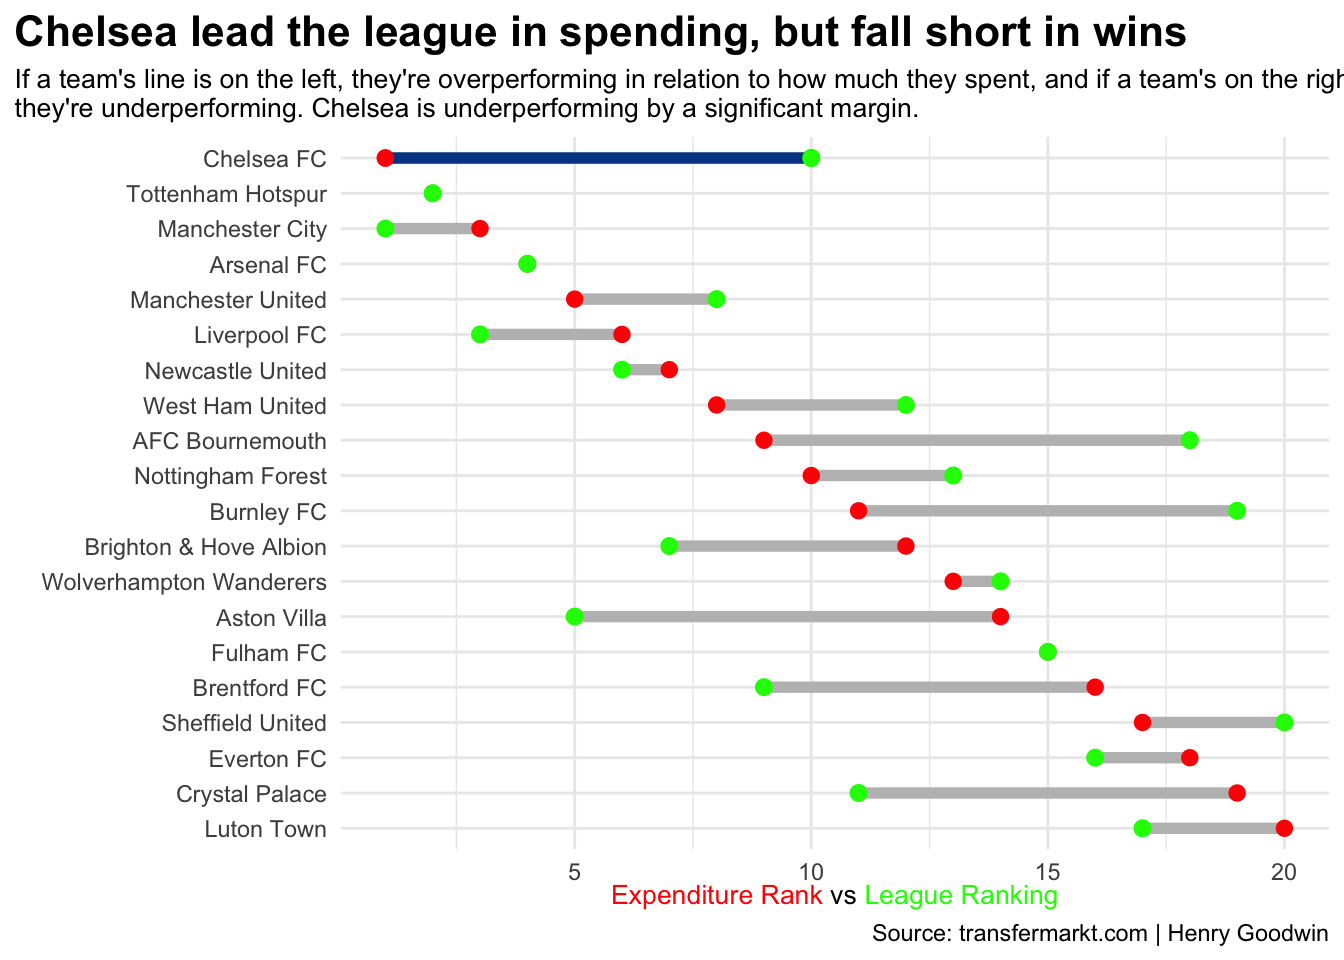
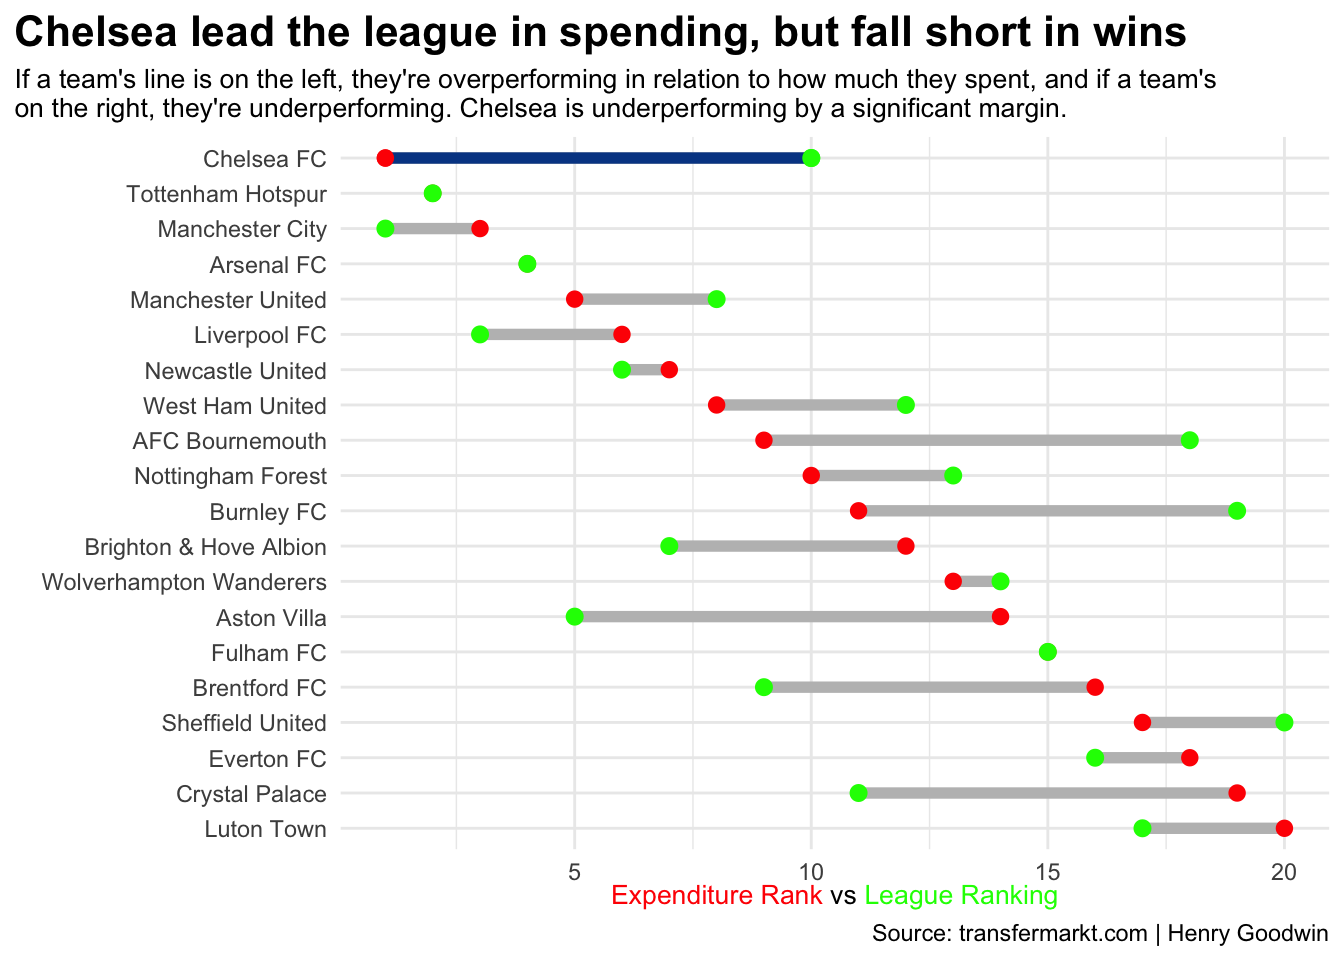
text fix chelsea

Changed region(s): [[0.0, 0.0938, 0.7812, 0.125], [0.9062, 0.0625, 1.0, 0.0938]]

diff --git a/posts/chelsea-bad-spending-habits/index.html b/posts/chelsea-bad-spending-habits/index.html
@@ -220,8 +220,8 @@ pre > code.sourceCode > span > a:first-child::before { text-decoration: underlin
 <span id="cb1-37"><a href="#cb1-37" aria-hidden="true" tabindex="-1"></a><span class="at">colour_xend =</span> <span class="st">"green"</span>) <span class="sc">+</span></span>
 <span id="cb1-38"><a href="#cb1-38" aria-hidden="true" tabindex="-1"></a>  <span class="fu">labs</span> (</span>
 <span id="cb1-39"><a href="#cb1-39" aria-hidden="true" tabindex="-1"></a>    <span class="at">title =</span> <span class="st">"Chelsea lead the league in spending, but fall short in wins"</span>,</span>
-<span id="cb1-40"><a href="#cb1-40" aria-hidden="true" tabindex="-1"></a><span class="at">subtitle =</span> <span class="st">"If a team's line is on the left, they're overperforming in relation to how much they spent, and if a team's on the right, </span></span>
-<span id="cb1-41"><a href="#cb1-41" aria-hidden="true" tabindex="-1"></a><span class="st">they're underperforming. Chelsea is underperforming by a significant margin."</span>, </span>
+<span id="cb1-40"><a href="#cb1-40" aria-hidden="true" tabindex="-1"></a><span class="at">subtitle =</span> <span class="st">"If a team's line is on the left, they're overperforming in relation to how much they spent, and if a team's</span></span>
+<span id="cb1-41"><a href="#cb1-41" aria-hidden="true" tabindex="-1"></a><span class="st">on the right, they're underperforming. Chelsea is underperforming by a significant margin."</span>, </span>
 <span id="cb1-42"><a href="#cb1-42" aria-hidden="true" tabindex="-1"></a><span class="at">caption =</span> <span class="st">"Source: transfermarkt.com | Henry Goodwin"</span>,</span>
 <span id="cb1-43"><a href="#cb1-43" aria-hidden="true" tabindex="-1"></a><span class="at">x =</span> <span class="st">"&lt;span style = 'color:red;' &gt;Expenditure Rank&lt;/span&gt; vs &lt;span style = 'color:green;'&gt;League Ranking&lt;/span&gt;"</span>,</span>
 <span id="cb1-44"><a href="#cb1-44" aria-hidden="true" tabindex="-1"></a><span class="at">y=</span><span class="st">""</span></span>
@@ -284,11 +284,11 @@ pre > code.sourceCode > span > a:first-child::before { text-decoration: underlin
 <span id="cb2-41"><a href="#cb2-41" aria-hidden="true" tabindex="-1"></a>    <span class="at">title =</span> <span class="st">"Chelsea's recent scoring surge eclipses their defensive consistency"</span>,</span>
 <span id="cb2-42"><a href="#cb2-42" aria-hidden="true" tabindex="-1"></a>    <span class="at">subtitle =</span> <span class="st">"The blues have up until now, scored a lackluster amount of goals, despite all their financial efforts"</span>,</span>
 <span id="cb2-43"><a href="#cb2-43" aria-hidden="true" tabindex="-1"></a>    <span class="at">caption =</span> <span class="st">"Source = transfermarkt.com | Henry Goodwin"</span>,</span>
-<span id="cb2-44"><a href="#cb2-44" aria-hidden="true" tabindex="-1"></a>    <span class="at">x=</span><span class="st">"goals scored"</span>,</span>
-<span id="cb2-45"><a href="#cb2-45" aria-hidden="true" tabindex="-1"></a>    <span class="at">y=</span><span class="st">"goals allowed"</span></span>
+<span id="cb2-44"><a href="#cb2-44" aria-hidden="true" tabindex="-1"></a>    <span class="at">x=</span><span class="st">"Goals Scored"</span>,</span>
+<span id="cb2-45"><a href="#cb2-45" aria-hidden="true" tabindex="-1"></a>    <span class="at">y=</span><span class="st">"Goals Allowed"</span></span>
 <span id="cb2-46"><a href="#cb2-46" aria-hidden="true" tabindex="-1"></a>  ) <span class="sc">+</span></span>
 <span id="cb2-47"><a href="#cb2-47" aria-hidden="true" tabindex="-1"></a>   <span class="fu">theme_minimal</span>()<span class="sc">+</span></span>
-<span id="cb2-48"><a href="#cb2-48" aria-hidden="true" tabindex="-1"></a>      <span class="fu">theme</span>(<span class="at">plot.title =</span> <span class="fu">element_text</span>(<span class="at">size =</span> <span class="dv">16</span>, <span class="at">face =</span> <span class="st">"bold"</span>),</span>
+<span id="cb2-48"><a href="#cb2-48" aria-hidden="true" tabindex="-1"></a>      <span class="fu">theme</span>(<span class="at">plot.title =</span> <span class="fu">element_text</span>(<span class="at">size =</span> <span class="dv">14</span>, <span class="at">face =</span> <span class="st">"bold"</span>),</span>
 <span id="cb2-49"><a href="#cb2-49" aria-hidden="true" tabindex="-1"></a>            <span class="at">plot.subtitle =</span> <span class="fu">element_text</span>(<span class="at">size =</span> <span class="dv">10</span>),</span>
 <span id="cb2-50"><a href="#cb2-50" aria-hidden="true" tabindex="-1"></a>            <span class="at">axis.title =</span> <span class="fu">element_text</span>(<span class="at">size =</span> <span class="dv">10</span>),  </span>
 <span id="cb2-51"><a href="#cb2-51" aria-hidden="true" tabindex="-1"></a>            <span class="at">plot.title.position =</span> <span class="st">"plot"</span>)</span></code><button title="Copy to Clipboard" class="code-copy-button"><i class="bi"></i></button></pre></div>

diff --git a/index.html b/index.html
@@ -165,7 +165,7 @@ ul.task-list li input[type="checkbox"] {
 
 <div class="quarto-listing quarto-listing-container-default" id="listing-listing">
 <div class="list quarto-listing-default">
-<div class="quarto-post image-right" data-index="0" data-categories="code,soccer,chelsea" data-listing-date-sort="1699596000000" data-listing-file-modified-sort="1699644736707" data-listing-date-modified-sort="NaN" data-listing-reading-time-sort="7">
+<div class="quarto-post image-right" data-index="0" data-categories="code,soccer,chelsea" data-listing-date-sort="1699596000000" data-listing-file-modified-sort="1699644955498" data-listing-date-modified-sort="NaN" data-listing-reading-time-sort="7">
 <div class="thumbnail">
 <p><a href="./posts/chelsea-bad-spending-habits/index.html"> <img src="./posts/chelsea-bad-spending-habits/image.png" class="thumbnail-image"> </a></p>
 </div>
@@ -191,7 +191,7 @@ chelsea
 </div>
 <a href="./posts/chelsea-bad-spending-habits/index.html">
 <div class="listing-description">
-<!-- desc(5A0113B34292)[max=175]:posts/chelsea-bad-spending-habits/index.html -->
+It’s no surprise that Chelsea have had a few disappointing seasons in recent years, but what really went wrong from winning a Champions League title in 2021 to being middle…
 </div>
 </a>
 </div>
@@ -232,7 +232,7 @@ code
 </div>
 <a href="./posts/introduction/index.html">
 <div class="listing-description">
-<!-- desc(5A0113B34292)[max=175]:posts/introduction/index.html -->
+Hi. My name is Henry Goodwin, I am a student at the University of Nebraska Lincoln. I am double majoring in Sports Media &amp; Communications and Broadcasting with a minor in…
 </div>
 </a>
 </div>
